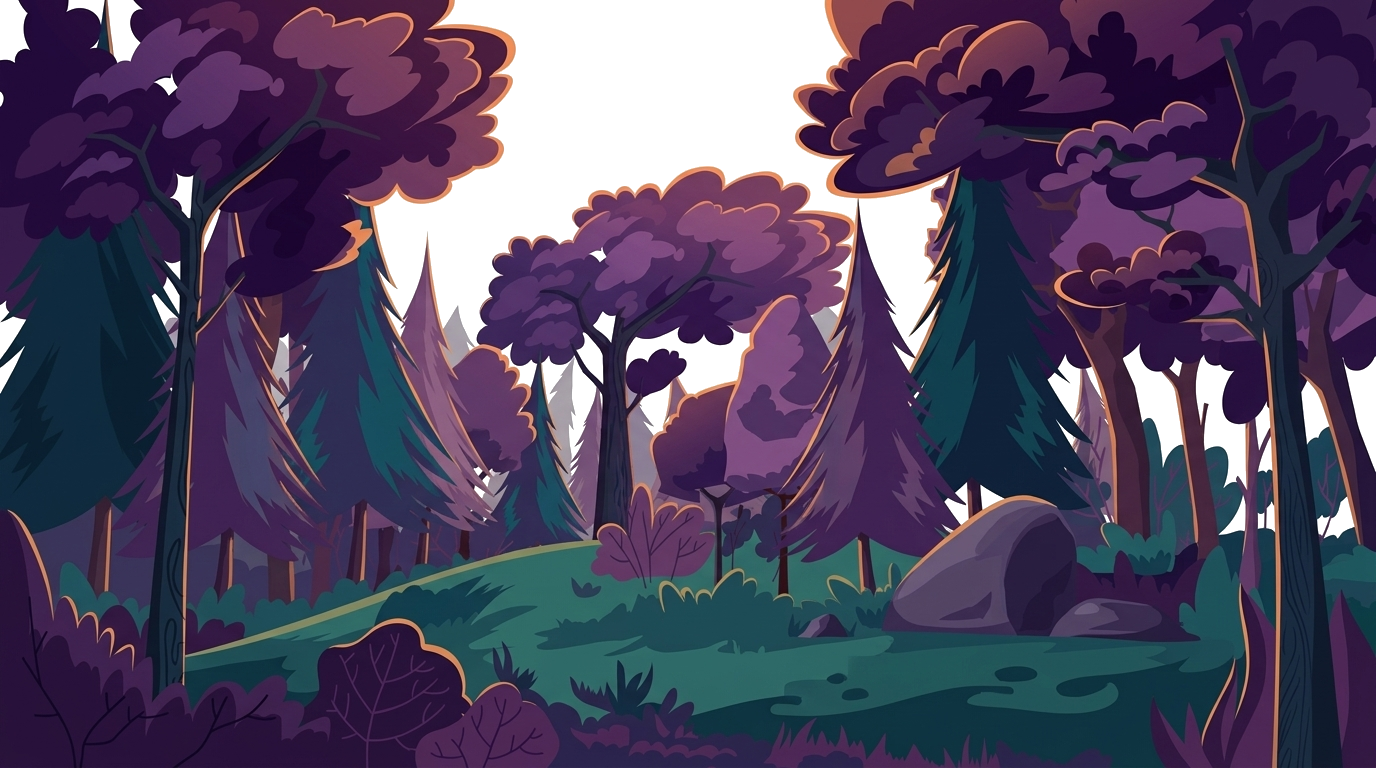
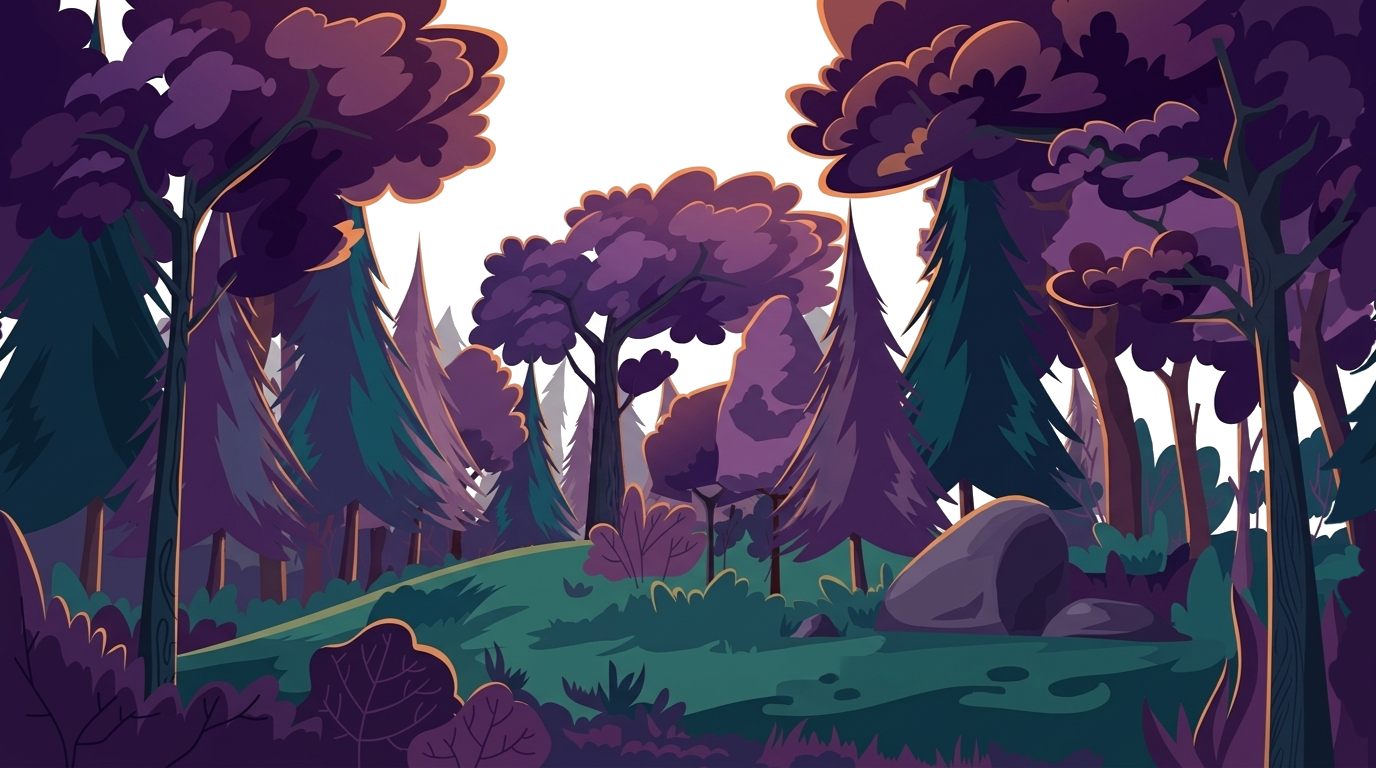
feat(docs): update YouTube launch video embed to xrPCF72UoOc

diff --git a/docs/index.html b/docs/index.html
@@ -780,7 +780,7 @@
       <div class="video-wrapper">
         <iframe
           id="launch-video"
-          src="https://www.youtube.com/embed/8g9B286T2iM?autoplay=1&mute=1&loop=1&playlist=8g9B286T2iM&rel=0&playsinline=1"
+          src="https://www.youtube.com/embed/xrPCF72UoOc?autoplay=1&mute=1&loop=1&playlist=xrPCF72UoOc&rel=0&playsinline=1"
           title="Tailorbird — Launch Experience (360° Forest Edition)"
           frameborder="0"
           allow="accelerometer; autoplay; clipboard-write; encrypted-media; gyroscope; picture-in-picture; web-share"
